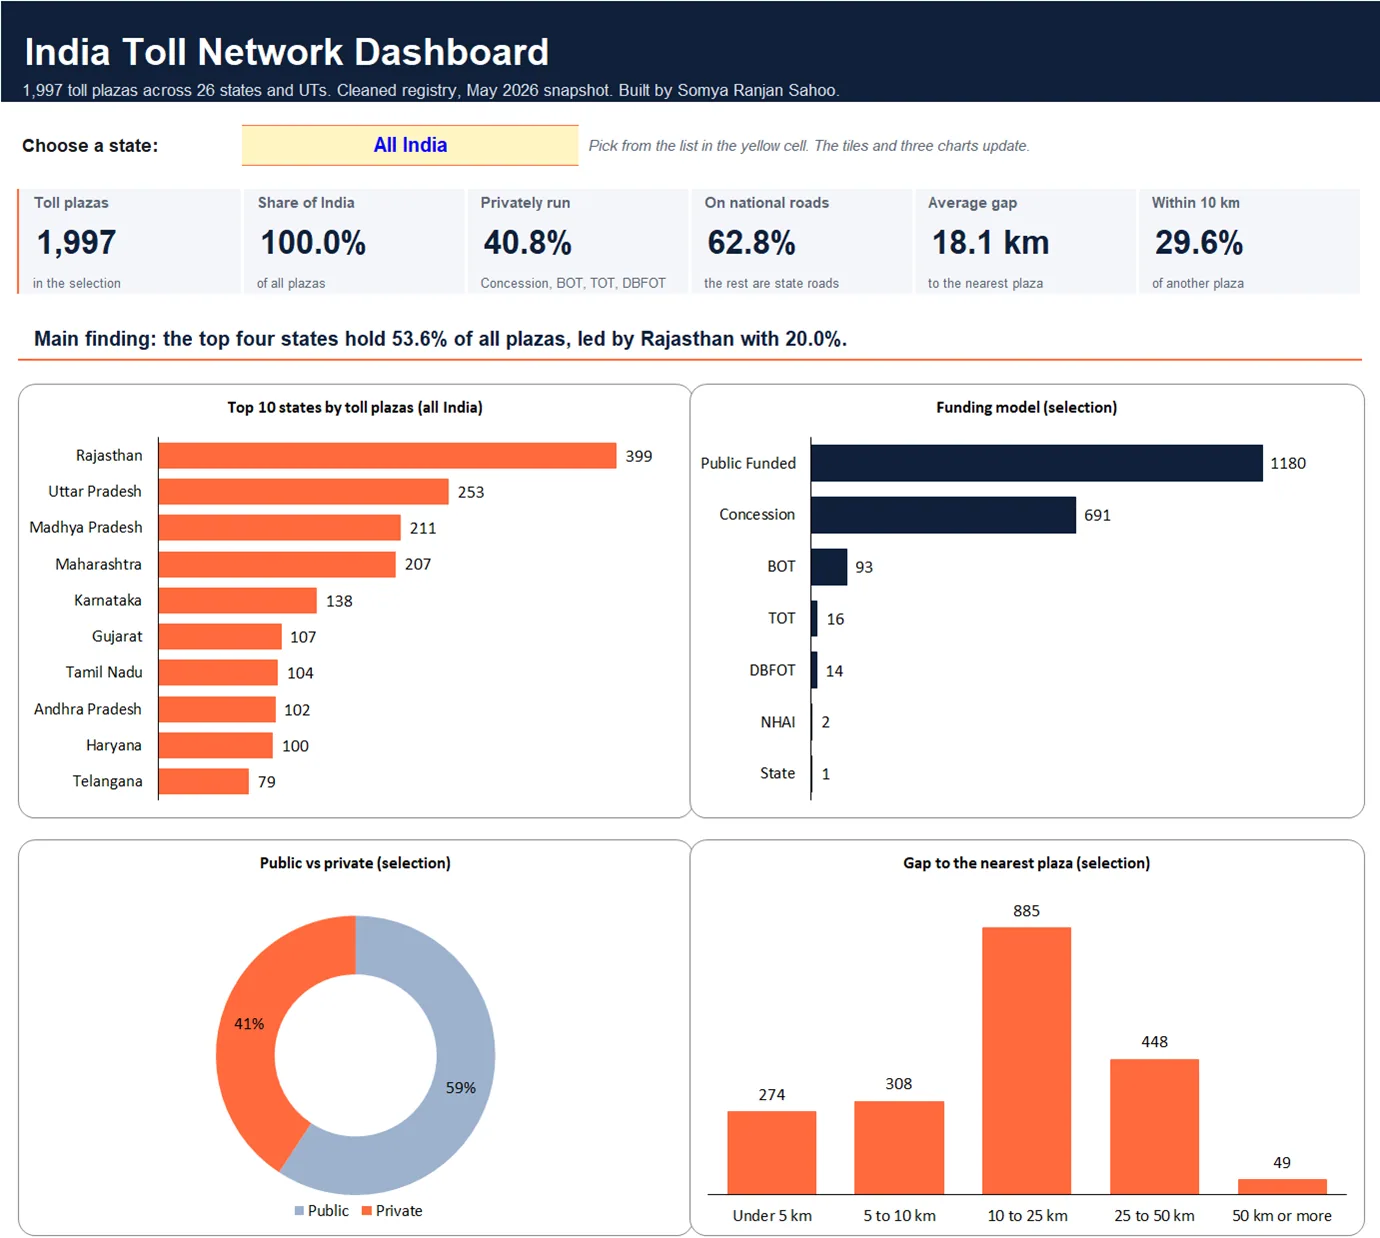
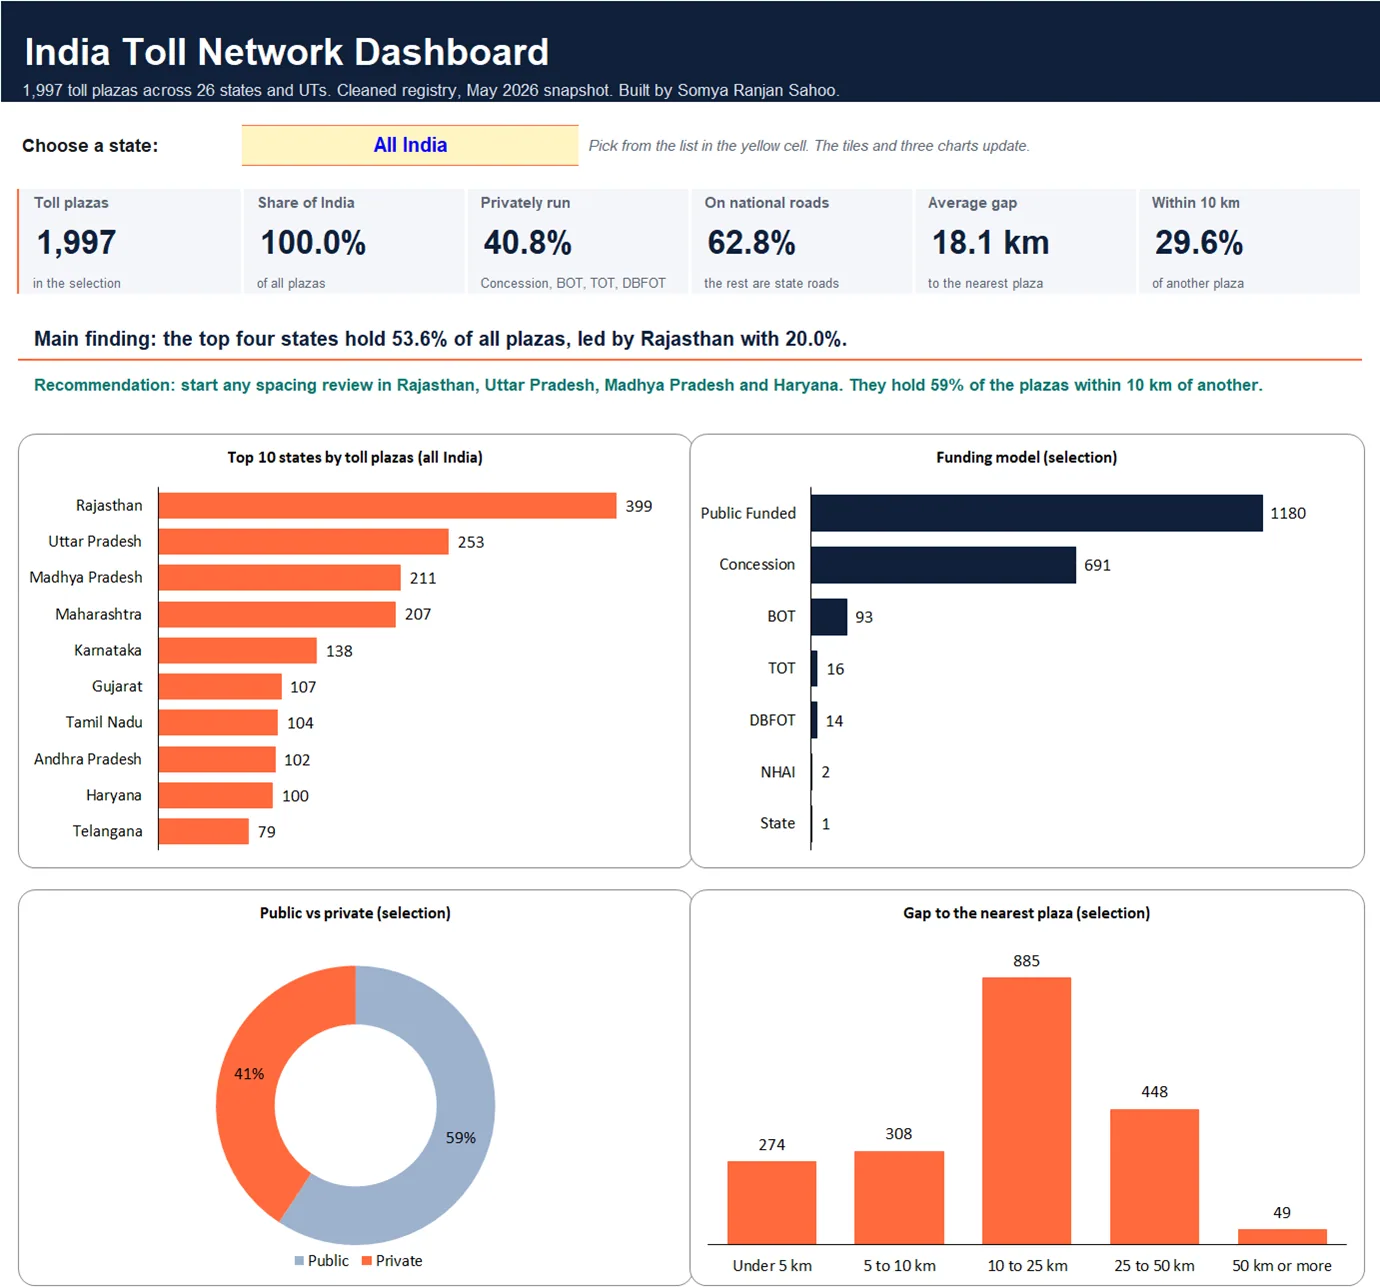
Excel dashboard: add the recommendation to the workbook

diff --git a/index.html b/index.html
@@ -209,7 +209,7 @@
           <h3 class="dl-h">The same data as an Excel dashboard</h3>
           <p class="dl-lede">A business-style view of the toll registry. Pick a state from the dropdown and the tiles and charts update, all from live formulas on the cleaned data.</p>
           <p class="dl-finding"><strong>Main finding:</strong> states run their tolls very differently. 72% of Karnataka's 138 plazas are privately run, against 17% of Odisha's 35.</p>
-          <a class="dl-shot zoom" href="assets/img/proj-toll-dashboard-1380.webp" data-caption="India Toll Network Dashboard in Excel"><img src="assets/img/proj-toll-dashboard-960.webp" srcset="assets/img/proj-toll-dashboard-480.webp 480w, assets/img/proj-toll-dashboard-960.webp 960w, assets/img/proj-toll-dashboard-1380.webp 1380w" sizes="(max-width: 760px) calc(100vw - 32px), 760px" width="960" height="861" alt="Excel dashboard with a state selector, six number tiles and four charts of India's toll plazas" loading="lazy" decoding="async"></a>
+          <a class="dl-shot zoom" href="assets/img/proj-toll-dashboard-1380.webp" data-caption="India Toll Network Dashboard in Excel"><img src="assets/img/proj-toll-dashboard-960.webp" srcset="assets/img/proj-toll-dashboard-480.webp 480w, assets/img/proj-toll-dashboard-960.webp 960w, assets/img/proj-toll-dashboard-1380.webp 1380w" sizes="(max-width: 760px) calc(100vw - 32px), 760px" width="960" height="895" alt="Excel dashboard with a state selector, six number tiles and four charts of India's toll plazas" loading="lazy" decoding="async"></a>
           <p class="dl-links"><a class="link" href="assets/data/india-toll-dashboard.xlsx" download>Download the workbook</a></p>
         </article>
 
